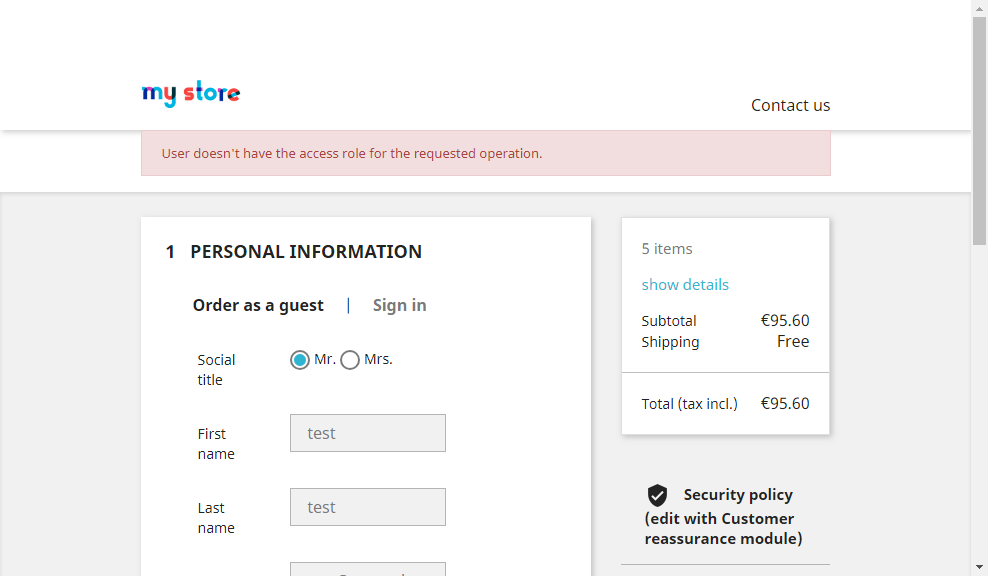
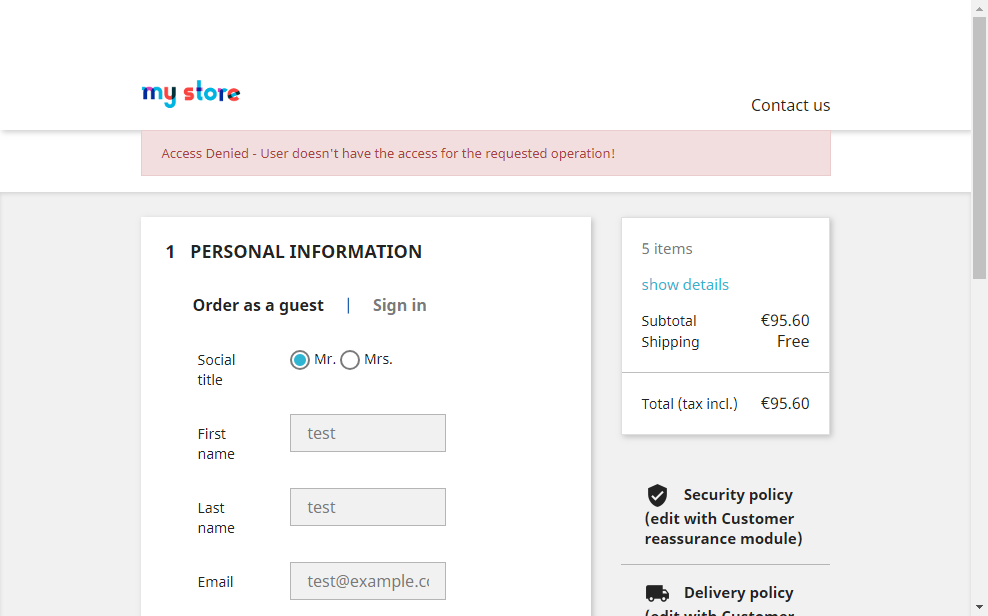
Add failed test screenshots from https://travis-ci.org/wirecard/prestashop-ee/builds/503480931

diff --git a/prestashop-ee/API-WDCEE-TEST/2019-03-08/checkCreditCard3DSFunctionalityHappyPath.try.purchaseCheck.fail.html b/prestashop-ee/API-WDCEE-TEST/2019-03-08/checkCreditCard3DSFunctionalityHappyPath.try.purchaseCheck.fail.html
@@ -35,14 +35,14 @@
 
 
 
-    <script type="text/javascript" src="https://payments-test.wirecard.com/engine/hpp/paymentPageLoader.js"></script><link rel="stylesheet" href="https://payments-test.wirecard.com:443/nssa/assets/skin/default/embeddedLoader.css" />
+    <script type="text/javascript" src="https://api-wdcee-test.wirecard.com/engine/hpp/paymentPageLoader.js"></script><link rel="stylesheet" href="https://api-wdcee-test.wirecard.com:443/engine/skin/default/embeddedLoader.css" />
 
 
   <script type="text/javascript">
         var ajaxsepaurl = "http:\/\/localhost:8080\/index.php?fc=module&amp;module=wirecardpaymentgateway&amp;controller=sepadirectdebit";
         var ccVaultURL = "http:\/\/localhost:8080\/index.php?fc=module&amp;module=wirecardpaymentgateway&amp;controller=creditcard";
         var configProviderURL = "http:\/\/localhost:8080\/index.php?fc=module&amp;module=wirecardpaymentgateway&amp;controller=configprovider";
-        var prestashop = {"cart":{"products":[{"add_to_cart_url":"http:\/\/localhost:8080\/index.php?controller=cart&amp;add=1&amp;id_product=1&amp;id_product_attribute=1&amp;token=62b233530545bee313f22f9a268ee32f","id":"1","attributes":{"Size":"S","Color":"White"},"show_price":true,"weight_unit":"kg","url":"http:\/\/localhost:8080\/index.php?id_product=1&amp;id_product_attribute=1&amp;rewrite=hummingbird-printed-t-shirt&amp;controller=product#\/1-size-s\/8-color-white","canonical_url":"http:\/\/localhost:8080\/index.php?id_product=1&amp;rewrite=hummingbird-printed-t-shirt&amp;controller=product","condition":false,"embedded_attributes":{"id_product_attribute":"1","id_product":"1","id_customization":null,"name":"Hummingbird printed t-shirt","description_short":"&lt;p&gt;&lt;span style=\"font-size:10pt;font-family:Arial;font-style:normal;\"&gt;Regular fit, round neckline, short sleeves. Made of extra long staple pima cotton. &lt;\/span&gt;&lt;\/p&gt;&lt;br \/&gt;&lt;p&gt;&lt;\/p&gt;","available_now":"","available_later":"","id_manufacturer":"1","on_sale":"0","ecotax":"0.000000","price":"\u20ac19.12","quantity":5,"link_rewrite":"hummingbird-printed-t-shirt","category":"men","reference":"demo_1","minimal_quantity":"1","id_image":"1-2","reduction":4.7800000000000002,"price_without_reduction":23.899999999999999,"specific_prices":{"id_specific_price":"1","id_specific_price_rule":"0","id_cart":"0","id_product":"1","id_shop":"0","id_shop_group":"0","id_currency":"0","id_country":"0","id_group":"0","id_customer":"0","id_product_attribute":"0","price":"-1.000000","from_quantity":"1","reduction":"0.200000","reduction_tax":"1","reduction_type":"percentage","from":"0000-00-00 00:00:00","to":"0000-00-00 00:00:00","score":"0"},"features":[],"attributes":{"Size":"S","Color":"White"},"rate":0,"tax_name":"","ecotax_rate":"","customizable":"","online_only":"","new":"","condition":"","pack":"","price_amount":"\u20ac19.12","quantity_wanted":"5"},"quantity_discounts":[],"reference_to_display":"demo_1","seo_availability":"https:\/\/schema.org\/InStock","labels":{"tax_short":"(tax incl.)","tax_long":"Tax included"},"ecotax":{"value":"\u20ac0.00","amount":"0.000000","rate":""},"flags":{"discount":{"type":"discount","label":"Reduced price"}},"main_variants":[{"id_product_attribute":3,"texture":"","id_product":"1","name":"White","add_to_cart_url":"http:\/\/localhost:8080\/index.php?controller=cart&amp;add=1&amp;id_product=1&amp;id_product_attribute=3&amp;token=62b233530545bee313f22f9a268ee32f","url":"http:\/\/localhost:8080\/index.php?id_product=1&amp;id_product_attribute=3&amp;rewrite=hummingbird-printed-t-shirt&amp;controller=product#\/2-size-m\/8-color-white","type":"color","html_color_code":"#ffffff"},{"id_product_attribute":2,"texture":"","id_product":"1","name":"Black","add_to_cart_url":"http:\/\/localhost:8080\/index.php?controller=cart&amp;add=1&amp;id_product=1&amp;id_product_attribute=2&amp;token=62b233530545bee313f22f9a268ee32f","url":"http:\/\/localhost:8080\/index.php?id_product=1&amp;id_product_attribute=2&amp;rewrite=hummingbird-printed-t-shirt&amp;controller=product#\/1-size-s\/11-color-black","type":"color","html_color_code":"#434A54"}],"id_product_attribute":"1","id_product":"1","cart_quantity":"5","id_customization":null,"name":"Hummingbird printed t-shirt","description_short":"&lt;p&gt;&lt;span style=\"font-size:10pt;font-family:Arial;font-style:normal;\"&gt;Regular fit, round neckline, short sleeves. Made of extra long staple pima cotton. &lt;\/span&gt;&lt;\/p&gt;&lt;br \/&gt;&lt;p&gt;&lt;\/p&gt;","available_now":"","available_later":"","id_manufacturer":"1","manufacturer_name":"Studio Design","on_sale":"0","price":"\u20ac19.12","quantity":5,"link_rewrite":"hummingbird-printed-t-shirt","category":"men","price_attribute":"0.000000","ecotax_attr":"0.000000","reference":"demo_1","ean13":"","isbn":"","upc":"","minimal_quantity":"1","id_image":"1-2","legend":"Hummingbird printed t-shirt","reduction":4.7800000000000002,"price_without_reduction":23.899999999999999,"specific_prices":{"id_specific_price":"1","id_specific_price_rule":"0","id_cart":"0","id_product":"1","id_shop":"0","id_shop_group":"0","id_currency":"0","id_country":"0","id_group":"0","id_customer":"0","id_product_attribute":"0","price":"-1.000000","from_quantity":"1","reduction":"0.200000","reduction_tax":"1","reduction_type":"percentage","from":"0000-00-00 00:00:00","to":"0000-00-00 00:00:00","score":"0"},"stock_quantity":300,"price_with_reduction":19.120000000000001,"price_with_reduction_without_tax":19.120000000000001,"total":"\u20ac95.60","total_wt":95.599999999999994,"price_wt":19.120000000000001,"allow_oosp":0,"attributes_small":"S- White","rate":0,"tax_name":"","remove_from_cart_url":"http:\/\/localhost:8080\/index.php?controller=cart&amp;delete=1&amp;id_product=1&amp;id_product_attribute=1&amp;token=62b233530545bee313f22f9a268ee32f","up_quantity_url":"http:\/\/localhost:8080\/index.php?controller=cart&amp;update=1&amp;id_product=1&amp;id_product_attribute=1&amp;token=62b233530545bee313f22f9a268ee32f&amp;op=up","down_quantity_url":"http:\/\/localhost:8080\/index.php?controller=cart&amp;update=1&amp;id_product=1&amp;id_product_attribute=1&amp;token=62b233530545bee313f22f9a268ee32f&amp;op=down","update_quantity_url":"http:\/\/localhost:8080\/index.php?controller=cart&amp;update=1&amp;id_product=1&amp;id_product_attribute=1&amp;token=62b233530545bee313f22f9a268ee32f","ecotax_rate":"","customizable":"","online_only":"","new":"","pack":"","price_amount":"\u20ac19.12","quantity_wanted":"5","images":[{"bySize":{"small_default":{"url":"http:\/\/localhost:8080\/img\/p\/2\/2-small_default.jpg","width":98,"height":98},"cart_default":{"url":"http:\/\/localhost:8080\/img\/p\/2\/2-cart_default.jpg","width":125,"height":125},"home_default":{"url":"http:\/\/localhost:8080\/img\/p\/2\/2-home_default.jpg","width":250,"height":250},"medium_default":{"url":"http:\/\/localhost:8080\/img\/p\/2\/2-medium_default.jpg","width":452,"height":452},"large_default":{"url":"http:\/\/localhost:8080\/img\/p\/2\/2-large_default.jpg","width":800,"height":800}},"small":{"url":"http:\/\/localhost:8080\/img\/p\/2\/2-small_default.jpg","width":98,"height":98},"medium":{"url":"http:\/\/localhost:8080\/img\/p\/2\/2-home_default.jpg","width":250,"height":250},"large":{"url":"http:\/\/localhost:8080\/img\/p\/2\/2-large_default.jpg","width":800,"height":800},"legend":"Hummingbird printed t-shirt","cover":null,"id_image":"2","position":"2","associatedVariants":["3","5","7","1"]}],"cover":{"bySize":{"small_default":{"url":"http:\/\/localhost:8080\/img\/p\/2\/2-small_default.jpg","width":98,"height":98},"cart_default":{"url":"http:\/\/localhost:8080\/img\/p\/2\/2-cart_default.jpg","width":125,"height":125},"home_default":{"url":"http:\/\/localhost:8080\/img\/p\/2\/2-home_default.jpg","width":250,"height":250},"medium_default":{"url":"http:\/\/localhost:8080\/img\/p\/2\/2-medium_default.jpg","width":452,"height":452},"large_default":{"url":"http:\/\/localhost:8080\/img\/p\/2\/2-large_default.jpg","width":800,"height":800}},"small":{"url":"http:\/\/localhost:8080\/img\/p\/2\/2-small_default.jpg","width":98,"height":98},"medium":{"url":"http:\/\/localhost:8080\/img\/p\/2\/2-home_default.jpg","width":250,"height":250},"large":{"url":"http:\/\/localhost:8080\/img\/p\/2\/2-large_default.jpg","width":800,"height":800},"legend":"Hummingbird printed t-shirt","cover":null,"id_image":"2","position":"2","associatedVariants":["3","5","7","1"]},"has_discount":true,"discount_type":"percentage","discount_percentage":"-20%","discount_percentage_absolute":"20%","discount_amount":"\u20ac4.78","regular_price_amount":23.899999999999999,"regular_price":"\u20ac23.90","discount_to_display":"\u20ac4.78","unit_price_full":"","unit_price":"","show_availability":true,"availability_date":null,"availability_message":"","availability":"available","customizations":[]}],"totals":{"total":{"type":"total","label":"Total","amount":95.599999999999994,"value":"\u20ac95.60"},"total_including_tax":{"type":"total","label":"Total (tax incl.)","amount":95.599999999999994,"value":"\u20ac95.60"},"total_excluding_tax":{"type":"total","label":"Total (tax excl.)","amount":95.599999999999994,"value":"\u20ac95.60"}},"subtotals":{"products":{"type":"products","label":"Subtotal","amount":95.599999999999994,"value":"\u20ac95.60"},"discounts":null,"shipping":{"type":"shipping","label":"Shipping","amount":0,"value":"Free"},"tax":null},"products_count":5,"summary_string":"5 items","vouchers":{"allowed":0,"added":[]},"discounts":[],"minimalPurchase":0,"minimalPurchaseRequired":""},"currency":{"name":"Euro","iso_code":"EUR","iso_code_num":"978","sign":"\u20ac"},"customer":{"lastname":"test","firstname":"test","email":"test@example.com","birthday":"0000-00-00","newsletter":"0","newsletter_date_add":"0000-00-00 00:00:00","optin":"0","website":"","company":"","siret":"","ape":"","is_logged":true,"gender":{"type":"0","name":{"1":"Mr."}},"addresses":{"5":{"id":"5","alias":"My Address","firstname":"test","lastname":"test","company":"","address1":"test","address2":"","postcode":"8010","city":"Graz","id_state":"0","state":null,"state_iso":null,"id_country":"17","country":"United Kingdom","country_iso":"GB","other":"","phone":"123456","phone_mobile":"","vat_number":"","dni":"","formatted":"test test&lt;br&gt;test&lt;br&gt;Graz&lt;br&gt;8010&lt;br&gt;United Kingdom&lt;br&gt;123456"}}},"language":{"name":"English (English)","iso_code":"en","locale":"en-US","language_code":"en-us","is_rtl":"0","date_format_lite":"m\/d\/Y","date_format_full":"m\/d\/Y H:i:s","id":1},"page":{"title":"","canonical":null,"meta":{"title":"PrestaShop","description":"","keywords":"","robots":"index"},"page_name":"checkout","body_classes":{"lang-en":true,"lang-rtl":false,"country-GB":true,"currency-EUR":true,"layout-full-width":true,"page-order":true,"tax-display-enabled":true},"admin_notifications":[]},"shop":{"name":"PrestaShop","logo":"\/img\/logo.png","stores_icon":"\/img\/logo_stores.png","favicon":"\/img\/favicon.ico"},"urls":{"base_url":"http:\/\/localhost:8080\/","current_url":"http:\/\/localhost:8080\/index.php?controller=order","shop_domain_url":"http:\/\/localhost:8080","img_ps_url":"http:\/\/localhost:8080\/img\/","img_cat_url":"http:\/\/localhost:8080\/img\/c\/","img_lang_url":"http:\/\/localhost:8080\/img\/l\/","img_prod_url":"http:\/\/localhost:8080\/img\/p\/","img_manu_url":"http:\/\/localhost:8080\/img\/m\/","img_sup_url":"http:\/\/localhost:8080\/img\/su\/","img_ship_url":"http:\/\/localhost:8080\/img\/s\/","img_store_url":"http:\/\/localhost:8080\/img\/st\/","img_col_url":"http:\/\/localhost:8080\/img\/co\/","img_url":"http:\/\/localhost:8080\/themes\/classic\/assets\/img\/","css_url":"http:\/\/localhost:8080\/themes\/classic\/assets\/css\/","js_url":"http:\/\/localhost:8080\/themes\/classic\/assets\/js\/","pic_url":"http:\/\/localhost:8080\/upload\/","pages":{"address":"http:\/\/localhost:8080\/index.php?controller=address","addresses":"http:\/\/localhost:8080\/index.php?controller=addresses","authentication":"http:\/\/localhost:8080\/index.php?controller=authentication","cart":"http:\/\/localhost:8080\/index.php?controller=cart","category":"http:\/\/localhost:8080\/index.php?controller=category","cms":"http:\/\/localhost:8080\/index.php?controller=cms","contact":"http:\/\/localhost:8080\/index.php?controller=contact","discount":"http:\/\/localhost:8080\/index.php?controller=discount","guest_tracking":"http:\/\/localhost:8080\/index.php?controller=guest-tracking","history":"http:\/\/localhost:8080\/index.php?controller=history","identity":"http:\/\/localhost:8080\/index.php?controller=identity","index":"http:\/\/localhost:8080\/index.php","my_account":"http:\/\/localhost:8080\/index.php?controller=my-account","order_confirmation":"http:\/\/localhost:8080\/index.php?controller=order-confirmation","order_detail":"http:\/\/localhost:8080\/index.php?controller=order-detail","order_follow":"http:\/\/localhost:8080\/index.php?controller=order-follow","order":"http:\/\/localhost:8080\/index.php?controller=order","order_return":"http:\/\/localhost:8080\/index.php?controller=order-return","order_slip":"http:\/\/localhost:8080\/index.php?controller=order-slip","pagenotfound":"http:\/\/localhost:8080\/index.php?controller=pagenotfound","password":"http:\/\/localhost:8080\/index.php?controller=password","pdf_invoice":"http:\/\/localhost:8080\/index.php?controller=pdf-invoice","pdf_order_return":"http:\/\/localhost:8080\/index.php?controller=pdf-order-return","pdf_order_slip":"http:\/\/localhost:8080\/index.php?controller=pdf-order-slip","prices_drop":"http:\/\/localhost:8080\/index.php?controller=prices-drop","product":"http:\/\/localhost:8080\/index.php?controller=product","search":"http:\/\/localhost:8080\/index.php?controller=search","sitemap":"http:\/\/localhost:8080\/index.php?controller=sitemap","stores":"http:\/\/localhost:8080\/index.php?controller=stores","supplier":"http:\/\/localhost:8080\/index.php?controller=supplier","register":"http:\/\/localhost:8080\/index.php?controller=authentication&amp;create_account=1","order_login":"http:\/\/localhost:8080\/index.php?controller=order&amp;login=1"},"alternative_langs":{"en-us":"http:\/\/localhost:8080\/index.php?controller=order&amp;id_lang=1"},"theme_assets":"\/themes\/classic\/assets\/","actions":{"logout":"http:\/\/localhost:8080\/index.php?mylogout="},"no_picture_image":{"bySize":{"small_default":{"url":"http:\/\/localhost:8080\/img\/p\/en-default-small_default.jpg","width":98,"height":98},"cart_default":{"url":"http:\/\/localhost:8080\/img\/p\/en-default-cart_default.jpg","width":125,"height":125},"home_default":{"url":"http:\/\/localhost:8080\/img\/p\/en-default-home_default.jpg","width":250,"height":250},"medium_default":{"url":"http:\/\/localhost:8080\/img\/p\/en-default-medium_default.jpg","width":452,"height":452},"large_default":{"url":"http:\/\/localhost:8080\/img\/p\/en-default-large_default.jpg","width":800,"height":800}},"small":{"url":"http:\/\/localhost:8080\/img\/p\/en-default-small_default.jpg","width":98,"height":98},"medium":{"url":"http:\/\/localhost:8080\/img\/p\/en-default-home_default.jpg","width":250,"height":250},"large":{"url":"http:\/\/localhost:8080\/img\/p\/en-default-large_default.jpg","width":800,"height":800},"legend":""}},"configuration":{"display_taxes_label":true,"is_catalog":false,"show_prices":true,"opt_in":{"partner":true},"quantity_discount":{"type":"discount","label":"Discount"},"voucher_enabled":0,"return_enabled":0},"field_required":[],"breadcrumb":{"links":[{"title":"Home","url":"http:\/\/localhost:8080\/index.php"}],"count":1},"link":{"protocol_link":"http:\/\/","protocol_content":"http:\/\/"},"time":1552030301,"static_token":"62b233530545bee313f22f9a268ee32f","token":"df1edaa1654fbc04f9060262d9314992"};
+        var prestashop = {"cart":{"products":[{"add_to_cart_url":"http:\/\/localhost:8080\/index.php?controller=cart&amp;add=1&amp;id_product=1&amp;id_product_attribute=1&amp;token=25b0c0e3c2b631fb53129431fbe068b0","id":"1","attributes":{"Size":"S","Color":"White"},"show_price":true,"weight_unit":"kg","url":"http:\/\/localhost:8080\/index.php?id_product=1&amp;id_product_attribute=1&amp;rewrite=hummingbird-printed-t-shirt&amp;controller=product#\/1-size-s\/8-color-white","canonical_url":"http:\/\/localhost:8080\/index.php?id_product=1&amp;rewrite=hummingbird-printed-t-shirt&amp;controller=product","condition":false,"embedded_attributes":{"id_product_attribute":"1","id_product":"1","id_customization":null,"name":"Hummingbird printed t-shirt","description_short":"&lt;p&gt;&lt;span style=\"font-size:10pt;font-family:Arial;font-style:normal;\"&gt;Regular fit, round neckline, short sleeves. Made of extra long staple pima cotton. &lt;\/span&gt;&lt;\/p&gt;&lt;br \/&gt;&lt;p&gt;&lt;\/p&gt;","available_now":"","available_later":"","id_manufacturer":"1","on_sale":"0","ecotax":"0.000000","price":"\u20ac19.12","quantity":5,"link_rewrite":"hummingbird-printed-t-shirt","category":"men","reference":"demo_1","minimal_quantity":"1","id_image":"1-2","reduction":4.7800000000000002,"price_without_reduction":23.899999999999999,"specific_prices":{"id_specific_price":"1","id_specific_price_rule":"0","id_cart":"0","id_product":"1","id_shop":"0","id_shop_group":"0","id_currency":"0","id_country":"0","id_group":"0","id_customer":"0","id_product_attribute":"0","price":"-1.000000","from_quantity":"1","reduction":"0.200000","reduction_tax":"1","reduction_type":"percentage","from":"0000-00-00 00:00:00","to":"0000-00-00 00:00:00","score":"0"},"features":[],"attributes":{"Size":"S","Color":"White"},"rate":0,"tax_name":"","ecotax_rate":"","customizable":"","online_only":"","new":"","condition":"","pack":"","price_amount":"\u20ac19.12","quantity_wanted":"5"},"quantity_discounts":[],"reference_to_display":"demo_1","seo_availability":"https:\/\/schema.org\/InStock","labels":{"tax_short":"(tax incl.)","tax_long":"Tax included"},"ecotax":{"value":"\u20ac0.00","amount":"0.000000","rate":""},"flags":{"discount":{"type":"discount","label":"Reduced price"}},"main_variants":[{"id_product_attribute":3,"texture":"","id_product":"1","name":"White","add_to_cart_url":"http:\/\/localhost:8080\/index.php?controller=cart&amp;add=1&amp;id_product=1&amp;id_product_attribute=3&amp;token=25b0c0e3c2b631fb53129431fbe068b0","url":"http:\/\/localhost:8080\/index.php?id_product=1&amp;id_product_attribute=3&amp;rewrite=hummingbird-printed-t-shirt&amp;controller=product#\/2-size-m\/8-color-white","type":"color","html_color_code":"#ffffff"},{"id_product_attribute":2,"texture":"","id_product":"1","name":"Black","add_to_cart_url":"http:\/\/localhost:8080\/index.php?controller=cart&amp;add=1&amp;id_product=1&amp;id_product_attribute=2&amp;token=25b0c0e3c2b631fb53129431fbe068b0","url":"http:\/\/localhost:8080\/index.php?id_product=1&amp;id_product_attribute=2&amp;rewrite=hummingbird-printed-t-shirt&amp;controller=product#\/1-size-s\/11-color-black","type":"color","html_color_code":"#434A54"}],"id_product_attribute":"1","id_product":"1","cart_quantity":"5","id_customization":null,"name":"Hummingbird printed t-shirt","description_short":"&lt;p&gt;&lt;span style=\"font-size:10pt;font-family:Arial;font-style:normal;\"&gt;Regular fit, round neckline, short sleeves. Made of extra long staple pima cotton. &lt;\/span&gt;&lt;\/p&gt;&lt;br \/&gt;&lt;p&gt;&lt;\/p&gt;","available_now":"","available_later":"","id_manufacturer":"1","manufacturer_name":"Studio Design","on_sale":"0","price":"\u20ac19.12","quantity":5,"link_rewrite":"hummingbird-printed-t-shirt","category":"men","price_attribute":"0.000000","ecotax_attr":"0.000000","reference":"demo_1","ean13":"","isbn":"","upc":"","minimal_quantity":"1","id_image":"1-2","legend":"Hummingbird printed t-shirt","reduction":4.7800000000000002,"price_without_reduction":23.899999999999999,"specific_prices":{"id_specific_price":"1","id_specific_price_rule":"0","id_cart":"0","id_product":"1","id_shop":"0","id_shop_group":"0","id_currency":"0","id_country":"0","id_group":"0","id_customer":"0","id_product_attribute":"0","price":"-1.000000","from_quantity":"1","reduction":"0.200000","reduction_tax":"1","reduction_type":"percentage","from":"0000-00-00 00:00:00","to":"0000-00-00 00:00:00","score":"0"},"stock_quantity":300,"price_with_reduction":19.120000000000001,"price_with_reduction_without_tax":19.120000000000001,"total":"\u20ac95.60","total_wt":95.599999999999994,"price_wt":19.120000000000001,"allow_oosp":0,"attributes_small":"S- White","rate":0,"tax_name":"","remove_from_cart_url":"http:\/\/localhost:8080\/index.php?controller=cart&amp;delete=1&amp;id_product=1&amp;id_product_attribute=1&amp;token=25b0c0e3c2b631fb53129431fbe068b0","up_quantity_url":"http:\/\/localhost:8080\/index.php?controller=cart&amp;update=1&amp;id_product=1&amp;id_product_attribute=1&amp;token=25b0c0e3c2b631fb53129431fbe068b0&amp;op=up","down_quantity_url":"http:\/\/localhost:8080\/index.php?controller=cart&amp;update=1&amp;id_product=1&amp;id_product_attribute=1&amp;token=25b0c0e3c2b631fb53129431fbe068b0&amp;op=down","update_quantity_url":"http:\/\/localhost:8080\/index.php?controller=cart&amp;update=1&amp;id_product=1&amp;id_product_attribute=1&amp;token=25b0c0e3c2b631fb53129431fbe068b0","ecotax_rate":"","customizable":"","online_only":"","new":"","pack":"","price_amount":"\u20ac19.12","quantity_wanted":"5","images":[{"bySize":{"small_default":{"url":"http:\/\/localhost:8080\/img\/p\/2\/2-small_default.jpg","width":98,"height":98},"cart_default":{"url":"http:\/\/localhost:8080\/img\/p\/2\/2-cart_default.jpg","width":125,"height":125},"home_default":{"url":"http:\/\/localhost:8080\/img\/p\/2\/2-home_default.jpg","width":250,"height":250},"medium_default":{"url":"http:\/\/localhost:8080\/img\/p\/2\/2-medium_default.jpg","width":452,"height":452},"large_default":{"url":"http:\/\/localhost:8080\/img\/p\/2\/2-large_default.jpg","width":800,"height":800}},"small":{"url":"http:\/\/localhost:8080\/img\/p\/2\/2-small_default.jpg","width":98,"height":98},"medium":{"url":"http:\/\/localhost:8080\/img\/p\/2\/2-home_default.jpg","width":250,"height":250},"large":{"url":"http:\/\/localhost:8080\/img\/p\/2\/2-large_default.jpg","width":800,"height":800},"legend":"Hummingbird printed t-shirt","cover":null,"id_image":"2","position":"2","associatedVariants":["3","5","7","1"]}],"cover":{"bySize":{"small_default":{"url":"http:\/\/localhost:8080\/img\/p\/2\/2-small_default.jpg","width":98,"height":98},"cart_default":{"url":"http:\/\/localhost:8080\/img\/p\/2\/2-cart_default.jpg","width":125,"height":125},"home_default":{"url":"http:\/\/localhost:8080\/img\/p\/2\/2-home_default.jpg","width":250,"height":250},"medium_default":{"url":"http:\/\/localhost:8080\/img\/p\/2\/2-medium_default.jpg","width":452,"height":452},"large_default":{"url":"http:\/\/localhost:8080\/img\/p\/2\/2-large_default.jpg","width":800,"height":800}},"small":{"url":"http:\/\/localhost:8080\/img\/p\/2\/2-small_default.jpg","width":98,"height":98},"medium":{"url":"http:\/\/localhost:8080\/img\/p\/2\/2-home_default.jpg","width":250,"height":250},"large":{"url":"http:\/\/localhost:8080\/img\/p\/2\/2-large_default.jpg","width":800,"height":800},"legend":"Hummingbird printed t-shirt","cover":null,"id_image":"2","position":"2","associatedVariants":["3","5","7","1"]},"has_discount":true,"discount_type":"percentage","discount_percentage":"-20%","discount_percentage_absolute":"20%","discount_amount":"\u20ac4.78","regular_price_amount":23.899999999999999,"regular_price":"\u20ac23.90","discount_to_display":"\u20ac4.78","unit_price_full":"","unit_price":"","show_availability":true,"availability_date":null,"availability_message":"","availability":"available","customizations":[]}],"totals":{"total":{"type":"total","label":"Total","amount":95.599999999999994,"value":"\u20ac95.60"},"total_including_tax":{"type":"total","label":"Total (tax incl.)","amount":95.599999999999994,"value":"\u20ac95.60"},"total_excluding_tax":{"type":"total","label":"Total (tax excl.)","amount":95.599999999999994,"value":"\u20ac95.60"}},"subtotals":{"products":{"type":"products","label":"Subtotal","amount":95.599999999999994,"value":"\u20ac95.60"},"discounts":null,"shipping":{"type":"shipping","label":"Shipping","amount":0,"value":"Free"},"tax":null},"products_count":5,"summary_string":"5 items","vouchers":{"allowed":0,"added":[]},"discounts":[],"minimalPurchase":0,"minimalPurchaseRequired":""},"currency":{"name":"Euro","iso_code":"EUR","iso_code_num":"978","sign":"\u20ac"},"customer":{"lastname":"test","firstname":"test","email":"test@example.com","birthday":"0000-00-00","newsletter":"0","newsletter_date_add":"0000-00-00 00:00:00","optin":"0","website":"","company":"","siret":"","ape":"","is_logged":true,"gender":{"type":"0","name":{"1":"Mr."}},"addresses":{"5":{"id":"5","alias":"My Address","firstname":"test","lastname":"test","company":"","address1":"test","address2":"","postcode":"8010","city":"Graz","id_state":"0","state":null,"state_iso":null,"id_country":"17","country":"United Kingdom","country_iso":"GB","other":"","phone":"123456","phone_mobile":"","vat_number":"","dni":"","formatted":"test test&lt;br&gt;test&lt;br&gt;Graz&lt;br&gt;8010&lt;br&gt;United Kingdom&lt;br&gt;123456"}}},"language":{"name":"English (English)","iso_code":"en","locale":"en-US","language_code":"en-us","is_rtl":"0","date_format_lite":"m\/d\/Y","date_format_full":"m\/d\/Y H:i:s","id":1},"page":{"title":"","canonical":null,"meta":{"title":"PrestaShop","description":"","keywords":"","robots":"index"},"page_name":"checkout","body_classes":{"lang-en":true,"lang-rtl":false,"country-GB":true,"currency-EUR":true,"layout-full-width":true,"page-order":true,"tax-display-enabled":true},"admin_notifications":[]},"shop":{"name":"PrestaShop","logo":"\/img\/logo.png","stores_icon":"\/img\/logo_stores.png","favicon":"\/img\/favicon.ico"},"urls":{"base_url":"http:\/\/localhost:8080\/","current_url":"http:\/\/localhost:8080\/index.php?controller=order","shop_domain_url":"http:\/\/localhost:8080","img_ps_url":"http:\/\/localhost:8080\/img\/","img_cat_url":"http:\/\/localhost:8080\/img\/c\/","img_lang_url":"http:\/\/localhost:8080\/img\/l\/","img_prod_url":"http:\/\/localhost:8080\/img\/p\/","img_manu_url":"http:\/\/localhost:8080\/img\/m\/","img_sup_url":"http:\/\/localhost:8080\/img\/su\/","img_ship_url":"http:\/\/localhost:8080\/img\/s\/","img_store_url":"http:\/\/localhost:8080\/img\/st\/","img_col_url":"http:\/\/localhost:8080\/img\/co\/","img_url":"http:\/\/localhost:8080\/themes\/classic\/assets\/img\/","css_url":"http:\/\/localhost:8080\/themes\/classic\/assets\/css\/","js_url":"http:\/\/localhost:8080\/themes\/classic\/assets\/js\/","pic_url":"http:\/\/localhost:8080\/upload\/","pages":{"address":"http:\/\/localhost:8080\/index.php?controller=address","addresses":"http:\/\/localhost:8080\/index.php?controller=addresses","authentication":"http:\/\/localhost:8080\/index.php?controller=authentication","cart":"http:\/\/localhost:8080\/index.php?controller=cart","category":"http:\/\/localhost:8080\/index.php?controller=category","cms":"http:\/\/localhost:8080\/index.php?controller=cms","contact":"http:\/\/localhost:8080\/index.php?controller=contact","discount":"http:\/\/localhost:8080\/index.php?controller=discount","guest_tracking":"http:\/\/localhost:8080\/index.php?controller=guest-tracking","history":"http:\/\/localhost:8080\/index.php?controller=history","identity":"http:\/\/localhost:8080\/index.php?controller=identity","index":"http:\/\/localhost:8080\/index.php","my_account":"http:\/\/localhost:8080\/index.php?controller=my-account","order_confirmation":"http:\/\/localhost:8080\/index.php?controller=order-confirmation","order_detail":"http:\/\/localhost:8080\/index.php?controller=order-detail","order_follow":"http:\/\/localhost:8080\/index.php?controller=order-follow","order":"http:\/\/localhost:8080\/index.php?controller=order","order_return":"http:\/\/localhost:8080\/index.php?controller=order-return","order_slip":"http:\/\/localhost:8080\/index.php?controller=order-slip","pagenotfound":"http:\/\/localhost:8080\/index.php?controller=pagenotfound","password":"http:\/\/localhost:8080\/index.php?controller=password","pdf_invoice":"http:\/\/localhost:8080\/index.php?controller=pdf-invoice","pdf_order_return":"http:\/\/localhost:8080\/index.php?controller=pdf-order-return","pdf_order_slip":"http:\/\/localhost:8080\/index.php?controller=pdf-order-slip","prices_drop":"http:\/\/localhost:8080\/index.php?controller=prices-drop","product":"http:\/\/localhost:8080\/index.php?controller=product","search":"http:\/\/localhost:8080\/index.php?controller=search","sitemap":"http:\/\/localhost:8080\/index.php?controller=sitemap","stores":"http:\/\/localhost:8080\/index.php?controller=stores","supplier":"http:\/\/localhost:8080\/index.php?controller=supplier","register":"http:\/\/localhost:8080\/index.php?controller=authentication&amp;create_account=1","order_login":"http:\/\/localhost:8080\/index.php?controller=order&amp;login=1"},"alternative_langs":{"en-us":"http:\/\/localhost:8080\/index.php?controller=order&amp;id_lang=1"},"theme_assets":"\/themes\/classic\/assets\/","actions":{"logout":"http:\/\/localhost:8080\/index.php?mylogout="},"no_picture_image":{"bySize":{"small_default":{"url":"http:\/\/localhost:8080\/img\/p\/en-default-small_default.jpg","width":98,"height":98},"cart_default":{"url":"http:\/\/localhost:8080\/img\/p\/en-default-cart_default.jpg","width":125,"height":125},"home_default":{"url":"http:\/\/localhost:8080\/img\/p\/en-default-home_default.jpg","width":250,"height":250},"medium_default":{"url":"http:\/\/localhost:8080\/img\/p\/en-default-medium_default.jpg","width":452,"height":452},"large_default":{"url":"http:\/\/localhost:8080\/img\/p\/en-default-large_default.jpg","width":800,"height":800}},"small":{"url":"http:\/\/localhost:8080\/img\/p\/en-default-small_default.jpg","width":98,"height":98},"medium":{"url":"http:\/\/localhost:8080\/img\/p\/en-default-home_default.jpg","width":250,"height":250},"large":{"url":"http:\/\/localhost:8080\/img\/p\/en-default-large_default.jpg","width":800,"height":800},"legend":""}},"configuration":{"display_taxes_label":true,"is_catalog":false,"show_prices":true,"opt_in":{"partner":true},"quantity_discount":{"type":"discount","label":"Discount"},"voucher_enabled":0,"return_enabled":0},"field_required":[],"breadcrumb":{"links":[{"title":"Home","url":"http:\/\/localhost:8080\/index.php"}],"count":1},"link":{"protocol_link":"http:\/\/","protocol_content":"http:\/\/"},"time":1552031417,"static_token":"25b0c0e3c2b631fb53129431fbe068b0","token":"d4505065ff6379ddaaf78c2c8d70dbcb"};
       </script>
 
 
@@ -149,14 +149,14 @@
                     <li class="category" id="category-3">
                           <a class="dropdown-item" href="http://localhost:8080/index.php?id_category=3&amp;controller=category" data-depth="0">
                                                                       <span class="float-xs-right hidden-md-up">
-                    <span data-target="#top_sub_menu_53340" data-toggle="collapse" class="navbar-toggler collapse-icons">
+                    <span data-target="#top_sub_menu_29741" data-toggle="collapse" class="navbar-toggler collapse-icons">
                       <i class="material-icons add"></i>
                       <i class="material-icons remove"></i>
                     </span>
                   </span>
                                 Clothes
               </a>
-                            <div class="popover sub-menu js-sub-menu collapse" id="top_sub_menu_53340">
+                            <div class="popover sub-menu js-sub-menu collapse" id="top_sub_menu_29741">
                 
           <ul class="top-menu" data-depth="1">
                     <li class="category" id="category-4">
@@ -176,14 +176,14 @@
                     <li class="category" id="category-6">
                           <a class="dropdown-item" href="http://localhost:8080/index.php?id_category=6&amp;controller=category" data-depth="0">
                                                                       <span class="float-xs-right hidden-md-up">
-                    <span data-target="#top_sub_menu_17259" data-toggle="collapse" class="navbar-toggler collapse-icons">
+                    <span data-target="#top_sub_menu_57148" data-toggle="collapse" class="navbar-toggler collapse-icons">
                       <i class="material-icons add"></i>
                       <i class="material-icons remove"></i>
                     </span>
                   </span>
                                 Accessories
               </a>
-                            <div class="popover sub-menu js-sub-menu collapse" id="top_sub_menu_17259">
+                            <div class="popover sub-menu js-sub-menu collapse" id="top_sub_menu_57148">
                 
           <ul class="top-menu" data-depth="1">
                     <li class="category" id="category-7">
@@ -249,7 +249,7 @@
           
         <article class="alert alert-danger" role="alert" data-alert="danger">
           <ul>
-                          <li>User doesn't have the access role for the requested operation.</li>
+                          <li>Access Denied - User doesn't have the access for the requested operation!</li>
                       </ul>
         </article>
       

diff --git a/prestashop-ee/API-WDCEE-TEST/2019-03-08/report.html b/prestashop-ee/API-WDCEE-TEST/2019-03-08/report.html
@@ -215,7 +215,7 @@
      <li> <a href="#" title="Incomplete" onClick="toggleScenarios('scenarioIncomplete', this.parentElement)"><strong>I</strong> 0</a></li>
    </ul>
  <div class="layout">
- <h1>Codeception Results <small><span style="color: #e74c3c">FAILED</span> (45s)</small></h1>
+ <h1>Codeception Results <small><span style="color: #e74c3c">FAILED</span> (44.9s)</small></h1>
 
 
 
@@ -227,7 +227,7 @@
 </tr>   <tr class="scenarioRow scenarioFailed">
     <td>
      <p class="scenarioFailed" onclick="showHide('1', this)"><span class="toggle">+</span>
-          <span class="quiet">CheckCreditCard3DSFunctionalityHappyPath &raquo;</span> try purchaseCheck <span style="color: #34495e; font-size: 70%;">45.04s</span></p>
+          <span class="quiet">CheckCreditCard3DSFunctionalityHappyPath &raquo;</span> try purchaseCheck <span style="color: #34495e; font-size: 70%;">44.94s</span></p>
     </td>
    </tr>
    <tr class="scenarioRow scenarioFailed">
@@ -248,13 +248,13 @@
       </tr>
 
 <tr>
- <td class="stepName " ><p onclick="showHide('5c821a61c8fbb', this)"><span class="toggle">+</span> Given i prepare checkout</p>
+ <td class="stepName " ><p onclick="showHide('5c821ebd612b6', this)"><span class="toggle">+</span> Given i prepare checkout</p>
 
      </td>
 </tr>
 <tr>
  <td class="nostyle">
-  <table border="0" width="100%" class="substeps scenarioStepsTable" id="stepContainer5c821a61c8fbb">
+  <table border="0" width="100%" class="substeps scenarioStepsTable" id="stepContainer5c821ebd612b6">
           <tr>
        <td class="stepName ">&nbsp;&nbsp;&nbsp;&nbsp;<strong></strong></td>
       </tr>
@@ -288,13 +288,13 @@
  </td>
 </tr>
 <tr>
- <td class="stepName " ><p onclick="showHide('5c821a61c9058', this)"><span class="toggle">+</span> And i am on "checkout" page</p>
+ <td class="stepName " ><p onclick="showHide('5c821ebd613d9', this)"><span class="toggle">+</span> And i am on "checkout" page</p>
 
      </td>
 </tr>
 <tr>
  <td class="nostyle">
-  <table border="0" width="100%" class="substeps scenarioStepsTable" id="stepContainer5c821a61c9058">
+  <table border="0" width="100%" class="substeps scenarioStepsTable" id="stepContainer5c821ebd613d9">
           <tr>
        <td class="stepName ">&nbsp;&nbsp;&nbsp;&nbsp;<strong></strong></td>
       </tr>
@@ -308,13 +308,13 @@
  </td>
 </tr>
 <tr>
- <td class="stepName " ><p onclick="showHide('5c821a61c90e7', this)"><span class="toggle">+</span> And i fill fields with "customer data"</p>
+ <td class="stepName " ><p onclick="showHide('5c821ebd614ad', this)"><span class="toggle">+</span> And i fill fields with "customer data"</p>
 
      </td>
 </tr>
 <tr>
  <td class="nostyle">
-  <table border="0" width="100%" class="substeps scenarioStepsTable" id="stepContainer5c821a61c90e7">
+  <table border="0" width="100%" class="substeps scenarioStepsTable" id="stepContainer5c821ebd614ad">
           <tr>
        <td class="stepName ">&nbsp;&nbsp;&nbsp;&nbsp;<strong></strong></td>
       </tr>
@@ -412,13 +412,13 @@
  </td>
 </tr>
 <tr>
- <td class="stepName " ><p onclick="showHide('5c821a61c91a5', this)"><span class="toggle">+</span> Then i see "wirecard credit card"</p>
+ <td class="stepName " ><p onclick="showHide('5c821ebd615c5', this)"><span class="toggle">+</span> Then i see "wirecard credit card"</p>
 
      </td>
 </tr>
 <tr>
  <td class="nostyle">
-  <table border="0" width="100%" class="substeps scenarioStepsTable" id="stepContainer5c821a61c91a5">
+  <table border="0" width="100%" class="substeps scenarioStepsTable" id="stepContainer5c821ebd615c5">
           <tr>
        <td class="stepName ">&nbsp;&nbsp;&nbsp;&nbsp;<strong></strong></td>
       </tr>
@@ -432,13 +432,13 @@
  </td>
 </tr>
 <tr>
- <td class="stepName " ><p onclick="showHide('5c821a61c922e', this)"><span class="toggle">+</span> Given i fill fields with "valid credit card data"</p>
+ <td class="stepName " ><p onclick="showHide('5c821ebd61694', this)"><span class="toggle">+</span> Given i fill fields with "valid credit card data"</p>
 
      </td>
 </tr>
 <tr>
  <td class="nostyle">
-  <table border="0" width="100%" class="substeps scenarioStepsTable" id="stepContainer5c821a61c922e">
+  <table border="0" width="100%" class="substeps scenarioStepsTable" id="stepContainer5c821ebd61694">
           <tr>
        <td class="stepName ">&nbsp;&nbsp;&nbsp;&nbsp;<strong></strong></td>
       </tr>
@@ -464,7 +464,7 @@
       </tr>
 
       <tr>
-       <td class="stepName ">&nbsp;&nbsp;&nbsp;&nbsp;I switch to i frame <span style="color: #732E81">&quot;wd-seamless-frame-8e20a8f4acbb9622cc7e2e2e19fdd3c578435dd0fbe86a11619f6f574cf41bf9&quot;</span></td>
+       <td class="stepName ">&nbsp;&nbsp;&nbsp;&nbsp;I switch to i frame <span style="color: #732E81">&quot;wd-seamless-frame-7dfb721fe56e4309bf43a41bbadc3ff3d4246cc829fd3989f25acc430dd32d14&quot;</span></td>
       </tr>
 
       <tr>
@@ -500,13 +500,13 @@
  </td>
 </tr>
 <tr>
- <td class="stepName " ><p onclick="showHide('5c821a61c92c9', this)"><span class="toggle">+</span> When i check "i agree to the terms of service"</p>
+ <td class="stepName " ><p onclick="showHide('5c821ebd61740', this)"><span class="toggle">+</span> When i check "i agree to the terms of service"</p>
 
      </td>
 </tr>
 <tr>
  <td class="nostyle">
-  <table border="0" width="100%" class="substeps scenarioStepsTable" id="stepContainer5c821a61c92c9">
+  <table border="0" width="100%" class="substeps scenarioStepsTable" id="stepContainer5c821ebd61740">
           <tr>
        <td class="stepName ">&nbsp;&nbsp;&nbsp;&nbsp;<strong></strong></td>
       </tr>
@@ -524,13 +524,13 @@
  </td>
 </tr>
 <tr>
- <td class="stepName " ><p onclick="showHide('5c821a61c936a', this)"><span class="toggle">+</span> When i click "order with an obligation to pay"</p>
+ <td class="stepName " ><p onclick="showHide('5c821ebd617be', this)"><span class="toggle">+</span> When i click "order with an obligation to pay"</p>
 
      </td>
 </tr>
 <tr>
  <td class="nostyle">
-  <table border="0" width="100%" class="substeps scenarioStepsTable" id="stepContainer5c821a61c936a">
+  <table border="0" width="100%" class="substeps scenarioStepsTable" id="stepContainer5c821ebd617be">
           <tr>
        <td class="stepName ">&nbsp;&nbsp;&nbsp;&nbsp;<strong></strong></td>
       </tr>
@@ -552,13 +552,13 @@
  </td>
 </tr>
 <tr>
- <td class="stepName failedStep" ><p onclick="showHide('5c821a61c944b', this)"><span class="toggle">+</span> And i am redirected to "verified" page</p>
+ <td class="stepName failedStep" ><p onclick="showHide('5c821ebd61923', this)"><span class="toggle">+</span> And i am redirected to "verified" page</p>
 
      </td>
 </tr>
 <tr>
  <td class="nostyle">
-  <table border="0" width="100%" class="substeps scenarioStepsTable" id="stepContainer5c821a61c944b">
+  <table border="0" width="100%" class="substeps scenarioStepsTable" id="stepContainer5c821ebd61923">
           <tr>
        <td class="stepName ">&nbsp;&nbsp;&nbsp;&nbsp;<strong></strong></td>
       </tr>
